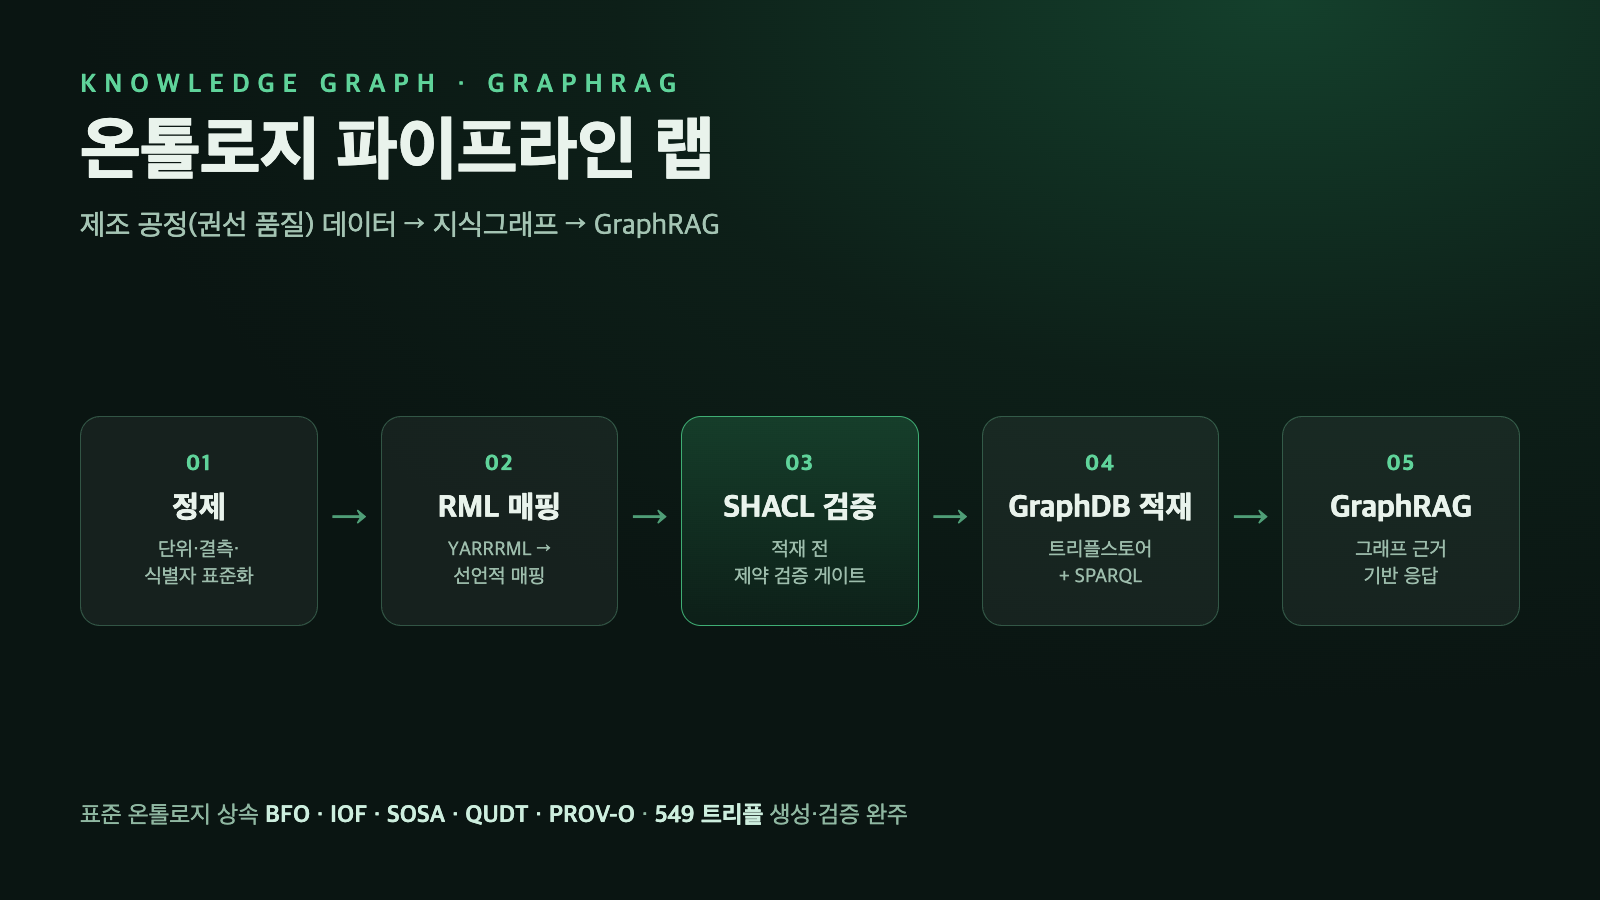
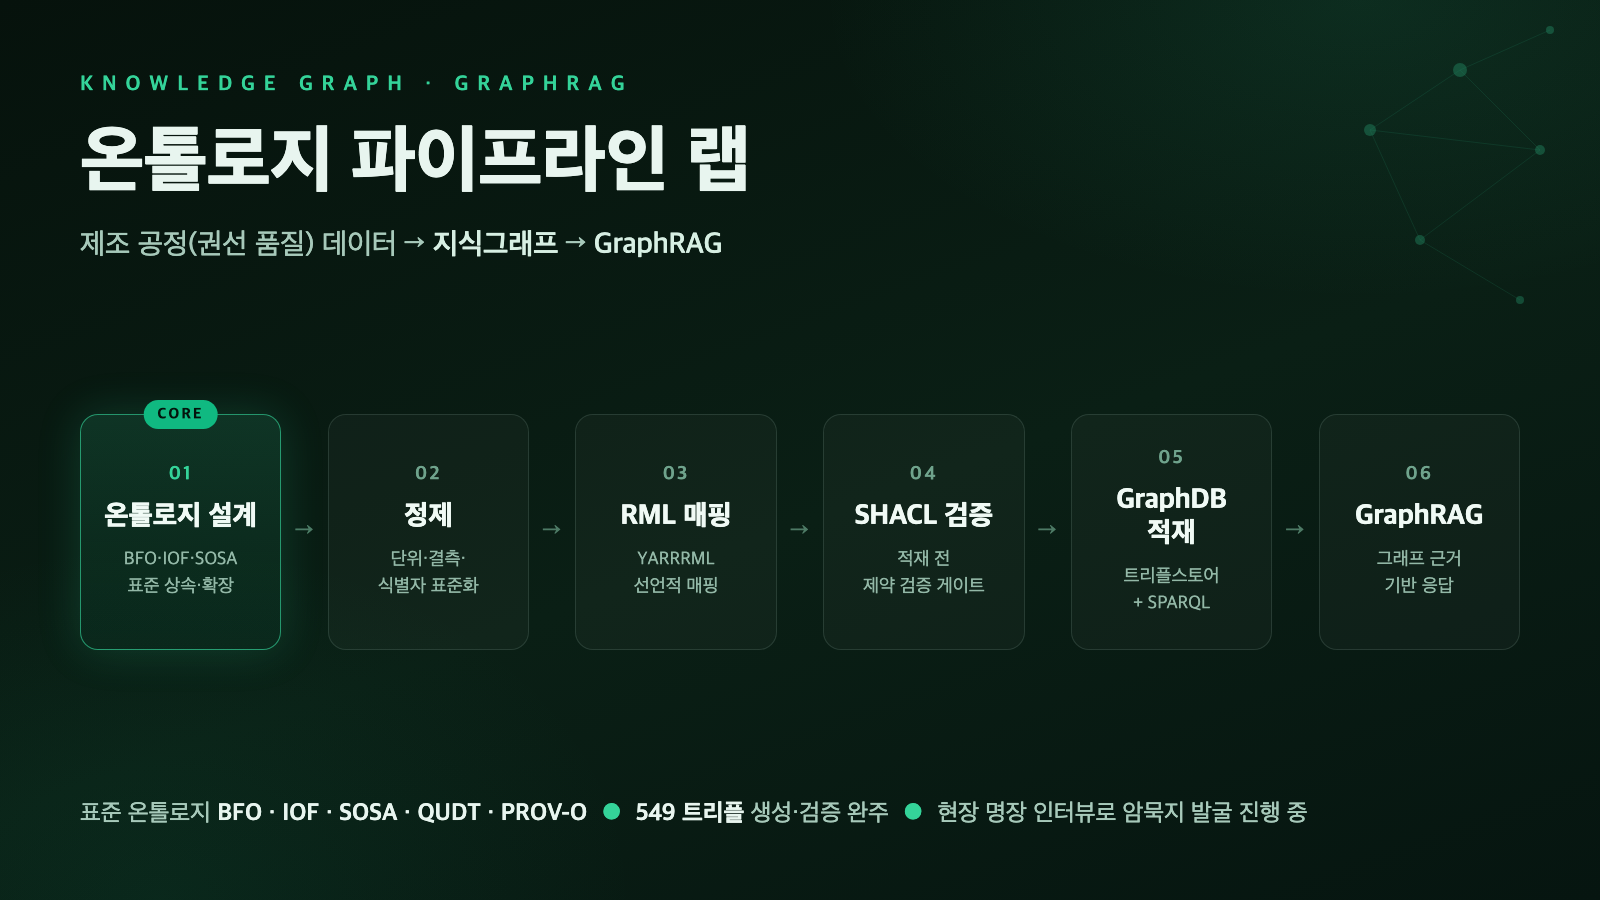
fix(projects): 온톨로지·플랫폼 v2 썸네일 재제작 및 설명 최신 문서 반영
- 온톨로지 썸네일: 핵심인 '온톨로지 설계'를 파이프라인 첫 단계(CORE)로 추가, 6단계 구성
- 플랫폼 v2 썸네일·설명: 케이스스터디 문서 기준으로 재작성
  (공통 구조 + 분리 빌드·배포 + 기본앱 제공, Go 이벤트 파이프라인, 수집 경로 분리)
- projects.ts: platform-v2 커널+플러그인 프레이밍 제거, 스택을 Go/Kafka/MongoDB 반영

diff --git a/next/data/projects.ts b/next/data/projects.ts
@@ -37,7 +37,7 @@ export const projects: Project[] = [
     stack: ["Python", "RDF/OWL", "RML", "SHACL", "GraphDB", "SPARQL", "GraphRAG"],
     thumbnail: "/ontology-pipeline-thumb.png",
     summary:
-      "제조 공정(권선 품질) 데이터를 정제→RML 매핑→SHACL 검증→GraphDB 적재→GraphRAG로 잇는 지식그래프 파이프라인 학습 랩",
+      "제조 공정(권선 품질) 데이터를 온톨로지 설계→정제→RML 매핑→SHACL 검증→GraphDB 적재→GraphRAG로 잇는 지식그래프 파이프라인 학습 랩",
     github: "https://github.com/Junseop-Shin/ontology-pipeline",
     sections: [
       {
@@ -318,28 +318,29 @@ export const projects: Project[] = [
     type: "work",
     company: "주식회사 티앤엠테크",
     title: "IoT 플랫폼 v2 재설계",
-    subtitle: "커널+플러그인 아키텍처 설계 · 프론트엔드/이벤트 파이프라인 구현",
+    subtitle: "전체 아키텍처 설계 · 프론트엔드/이벤트 파이프라인 담당",
     period: "2026.06 ~",
     stack: [
       "Next.js",
       "TypeScript",
-      "TanStack Query",
-      "CloudEvents",
+      "Go",
+      "Kafka",
       "Azure Event Hubs",
       "PostgreSQL",
+      "MongoDB",
     ],
     thumbnail: "/platform-v2-thumb.png",
     summary:
-      "산업용 IoT 플랫폼 전면 재설계. 전체 아키텍처(커널+플러그인, headless FE+manifest)를 설계하고 프론트엔드 위젯 프레임워크와 이벤트 파이프라인을 구현",
+      "여러 서비스가 한 서버에 얽혀 있던 IoT 플랫폼을 서비스별 분리 구조로 전면 재설계. '플랫폼이지만 결국 SI' 전제 위에서 공통 구조 + 분리 빌드·배포 + 기본앱 제공 체계를 잡고, 프론트엔드와 이벤트 파이프라인을 담당",
     web: "https://github.com/Junseop-Shin/Work/blob/main/Work_History/2026-06-플랫폼-v2-재설계.md",
     sections: [
       {
         heading: "주요 작업",
         items: [
-          "v1 한계 분석 후 커널+플러그인 아키텍처로 전면 재설계 (MSA 물리 분리 대비 트레이드오프 판단)",
-          "headless 프론트엔드: 화면=PageBody/RegionWidget 위젯 프레임워크, DB 카탈로그 기반 API 매핑·메뉴",
-          "디자인 시스템 v2 (다크 퍼스트, 테마 cascade) 및 web/mobile surface 분리",
-          "이벤트 파이프라인: CloudEvents/OTel, fan-out+동적 체이닝, 관리형 메시징(Azure Event Hubs) 기반",
+          "멈춰 있던 아키텍처 논의를 정리해 전체 플랜 수립 — 공통 구조 + 분리 빌드·배포 + 기본앱 제공 체계로 재설계",
+          "프론트엔드: 관리자 앱 + 비즈니스 기본앱(웹·모바일), 공통/비즈니스 경계 설계, 디자인 시스템 적용",
+          "이벤트 파이프라인(Go): 수신 어댑터→판단 코어→실행기 구조, 멱등 처리 + DLQ, Event Hubs 별도 토픽",
+          "수집 경로 분리 방향 설계: Function Apps→Kafka 전환으로 유실 없는 수집 + Capture 아카이빙, 수집 입구 비용 1/5 절감",
         ],
       },
     ],
